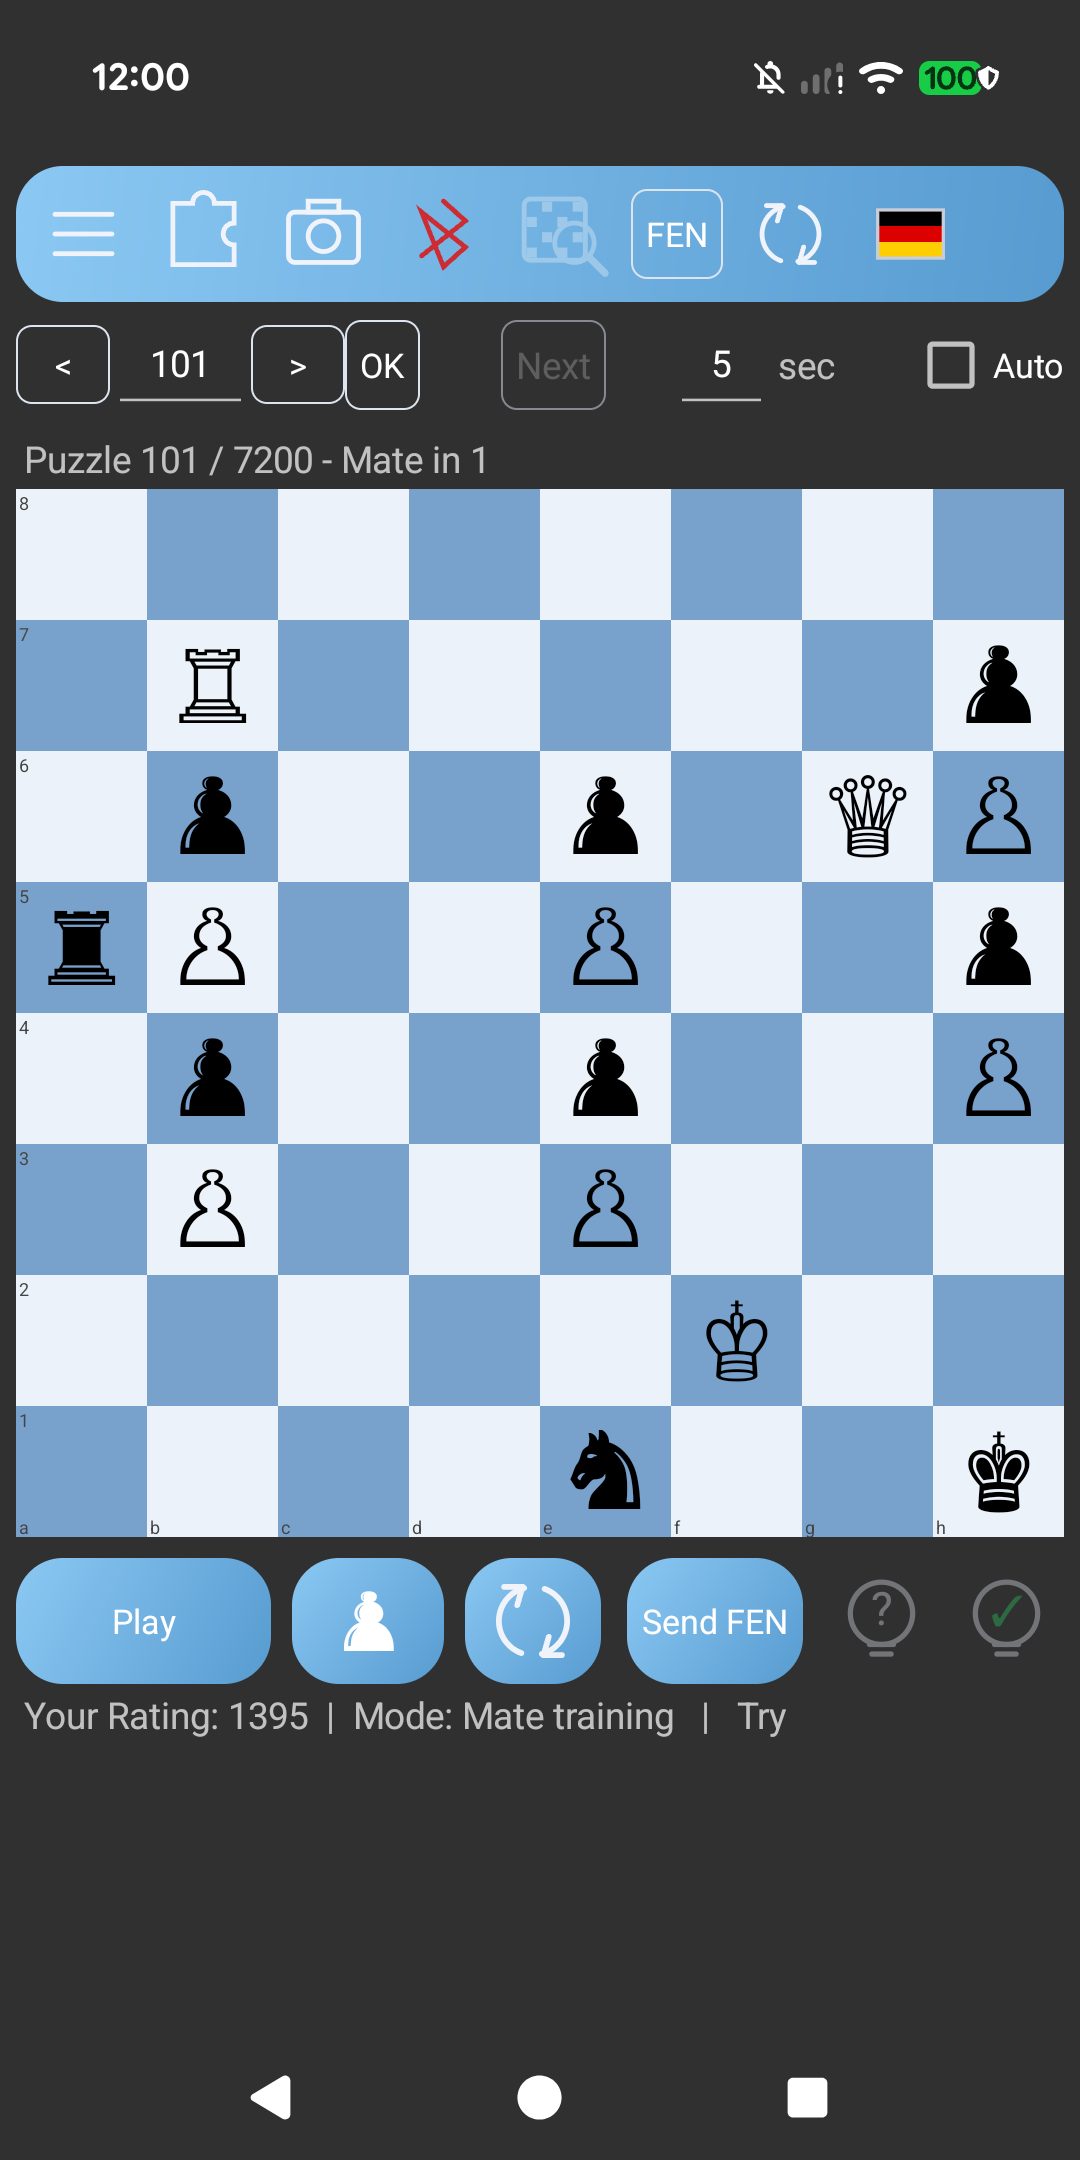
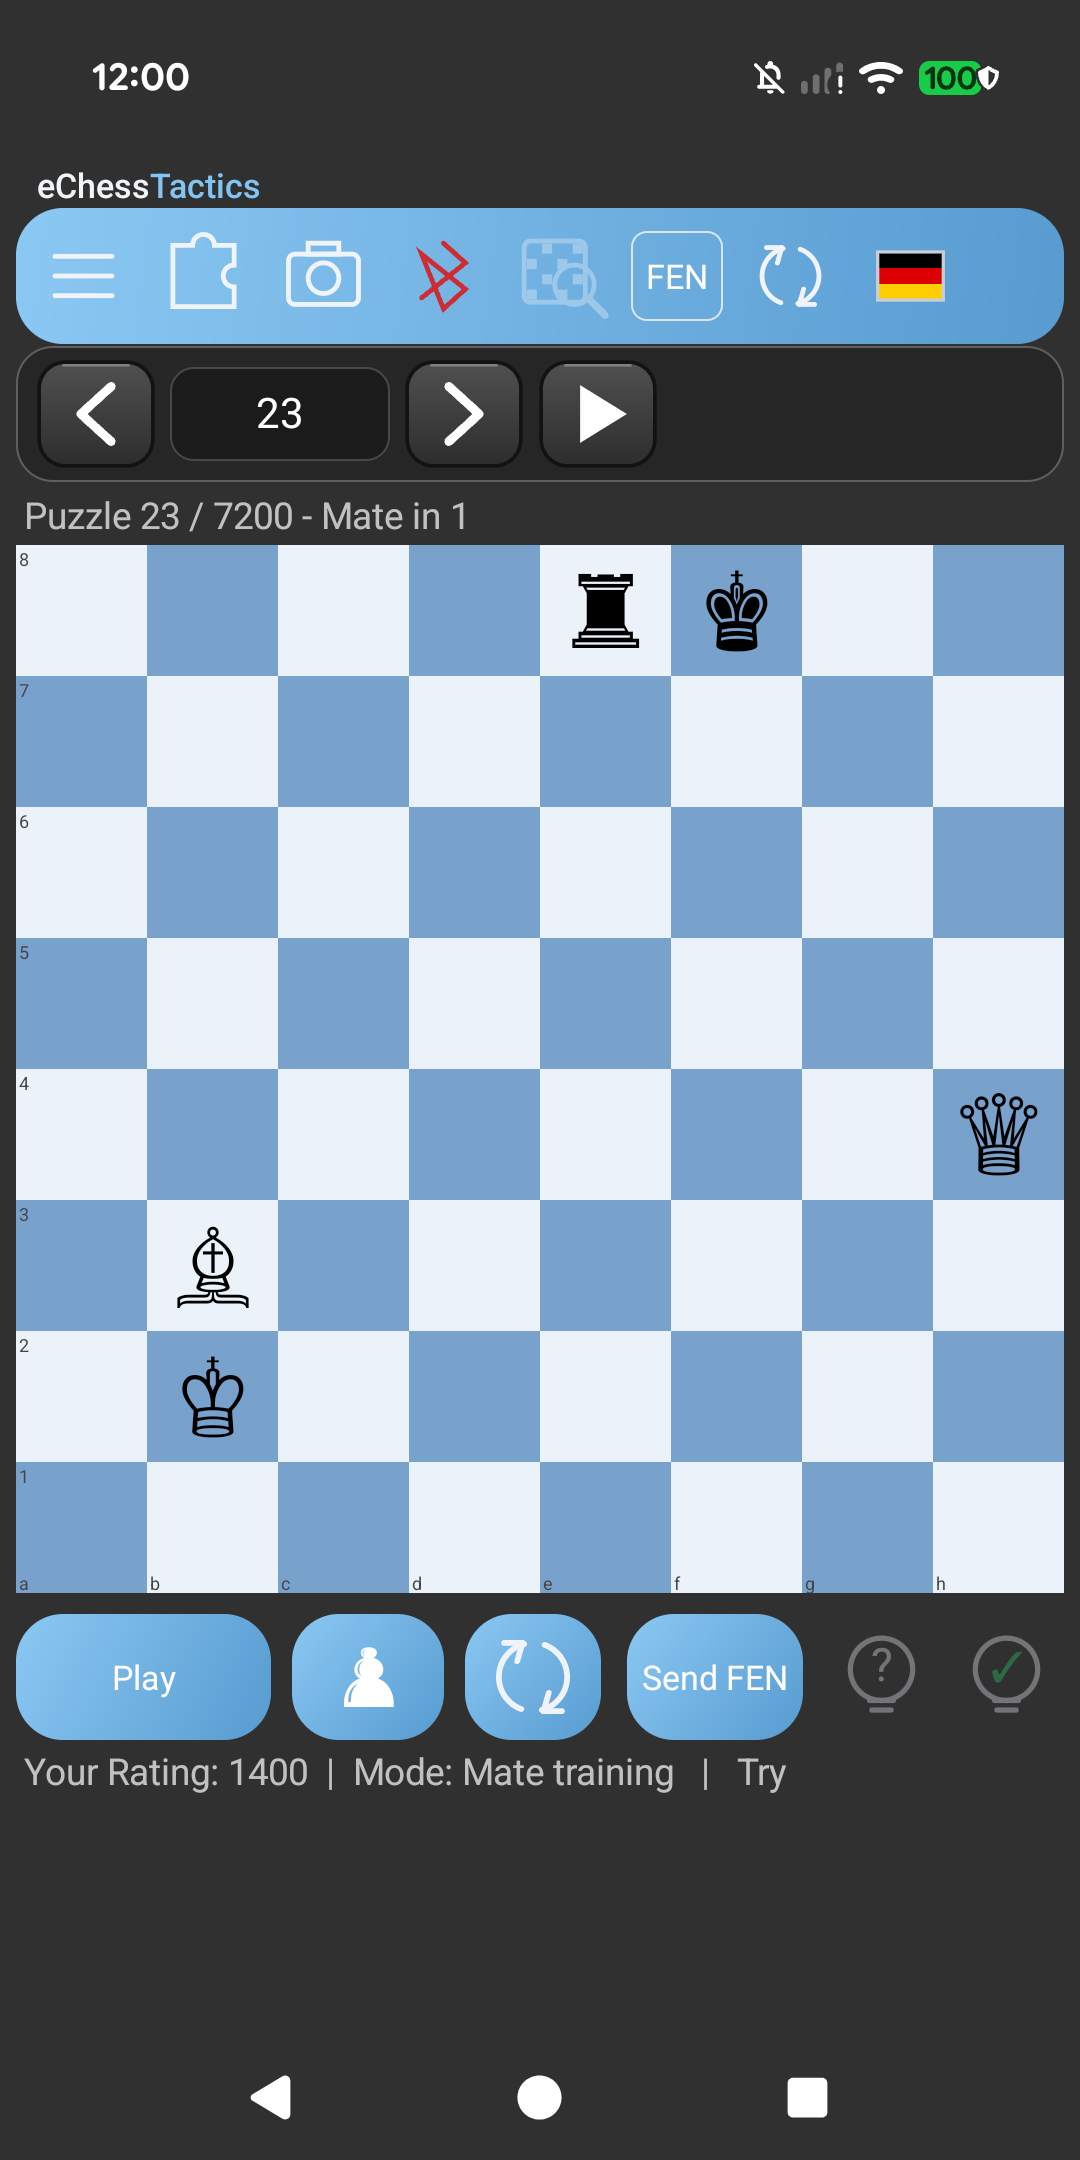
eChessTactics page: new screenshots (v1.3.2)

diff --git a/echesstactics/index.html b/echesstactics/index.html
@@ -102,11 +102,11 @@
         <p>Portrait and landscape, light on controls, built around the board.</p>
       </div>
       <div class="pp-shots">
-        <figure><img src="../assets/echesstactics/shot-1-puzzle.png" alt="Rating training puzzle" loading="lazy"><figcaption>Rating training</figcaption></figure>
-        <figure><img src="../assets/echesstactics/shot-2-mate.png" alt="Mate training" loading="lazy"><figcaption>Mate training: puzzle 101 of 7,200</figcaption></figure>
-        <figure><img src="../assets/echesstactics/shot-3-endgame.png" alt="Endgame with analysis" loading="lazy"><figcaption>Endgame with analysis</figcaption></figure>
-        <figure><img src="../assets/echesstactics/shot-4-analysis.png" alt="Analysis with three variations and arrows" loading="lazy"><figcaption>Analysis with arrows</figcaption></figure>
-        <figure><img src="../assets/echesstactics/shot-5-themes.png" alt="Endgame themes" loading="lazy"><figcaption>Endgame themes</figcaption></figure>
+        <figure><img src="../assets/echesstactics/shot-1-modes.png" alt="Puzzle modes menu" loading="lazy"><figcaption>Puzzle modes</figcaption></figure>
+        <figure><img src="../assets/echesstactics/shot-2-mate.png" alt="Mate training with the navigation bar" loading="lazy"><figcaption>Mate training: puzzle 23 of 7,200</figcaption></figure>
+        <figure><img src="../assets/echesstactics/shot-3-analysis.png" alt="Endgame analysis with arrows and three variations" loading="lazy"><figcaption>Analysis with arrows and adjustable variations</figcaption></figure>
+        <figure><img src="../assets/echesstactics/shot-4-opening.png" alt="Opening tactics puzzle" loading="lazy"><figcaption>Opening tactics</figcaption></figure>
+        <figure><img src="../assets/echesstactics/shot-5-pgn.png" alt="PGN viewer with comment card, notation and analysis" loading="lazy"><figcaption>PGN viewer with comments and analysis</figcaption></figure>
       </div>
     </section>
 
